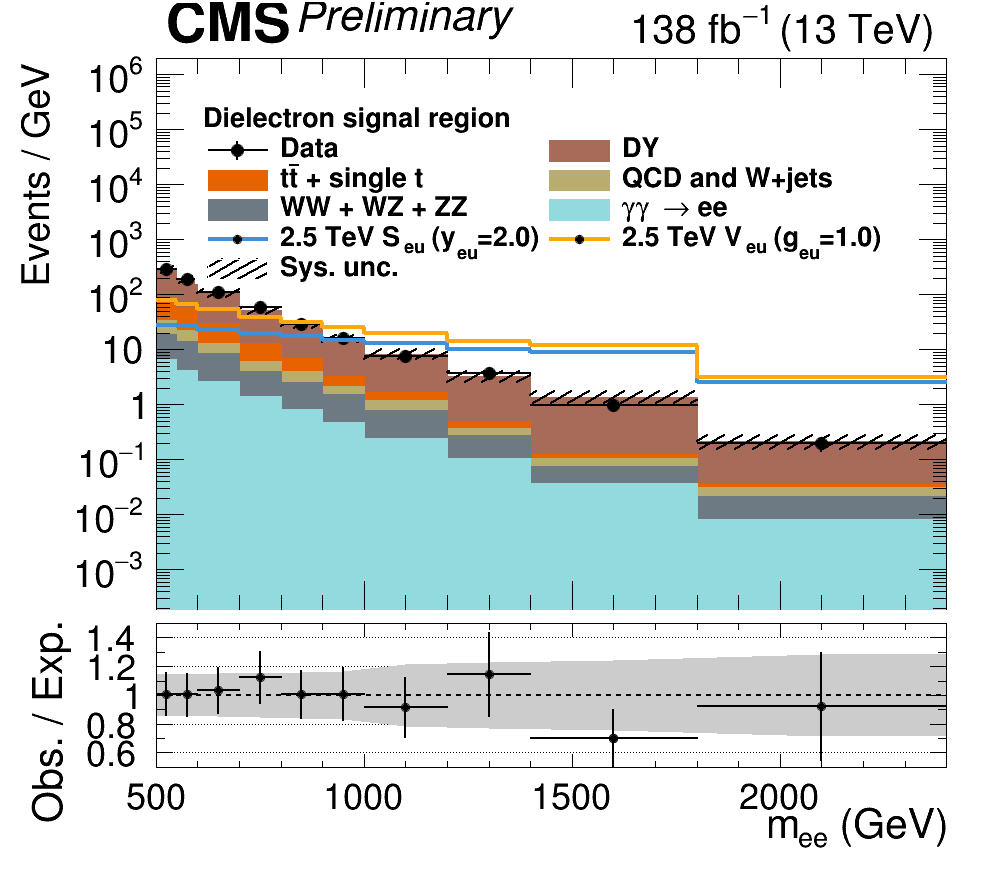
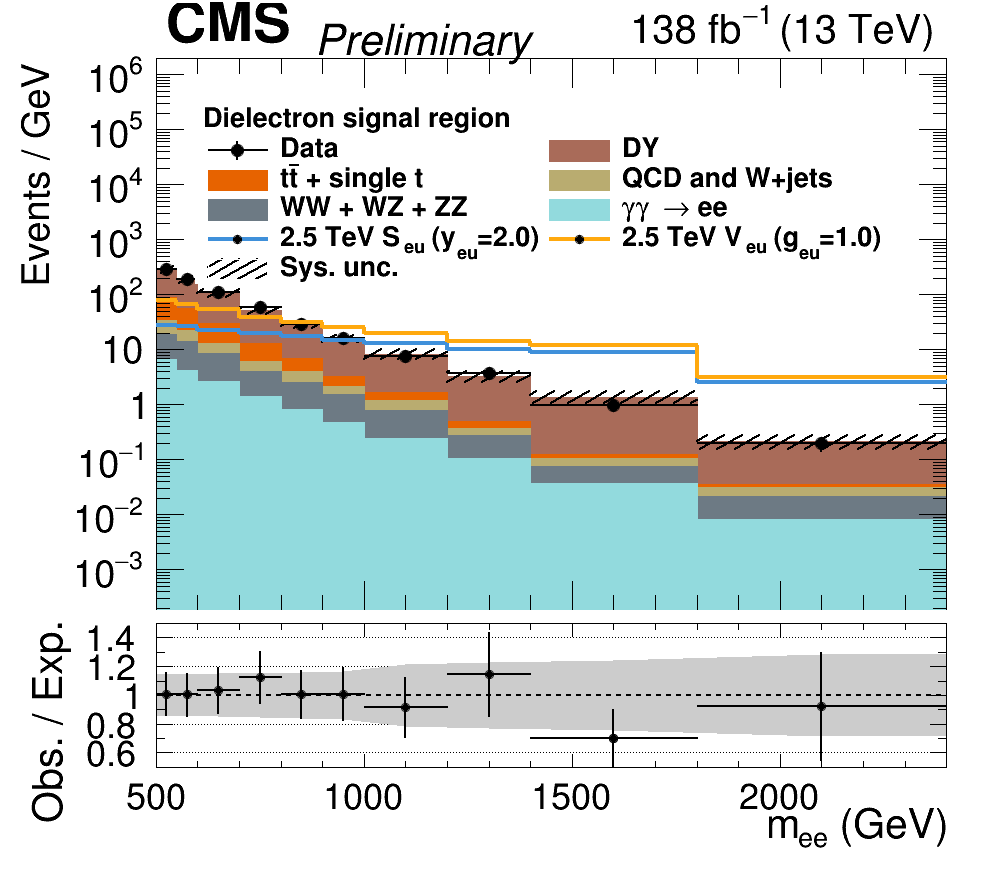
hopefully preliminary added

Changed region(s): [[0.2801, 0.0, 0.5291, 0.0619]]

diff --git a/plots/CMS_lumi.C b/plots/CMS_lumi.C
@@ -159,7 +159,7 @@ CMS_lumi( TPad* pad, int iPeriod, int iPosX )
           latex.SetTextFont(extraTextFont);
           latex.SetTextAlign(align_);
           latex.SetTextSize(extraTextSize*t);
-          latex.DrawLatex(posX_+0.1, posY_+0.09, extraText);
+          latex.DrawLatex(posX_+0.12, posY_+0.06, extraText);
         
     }
     }
